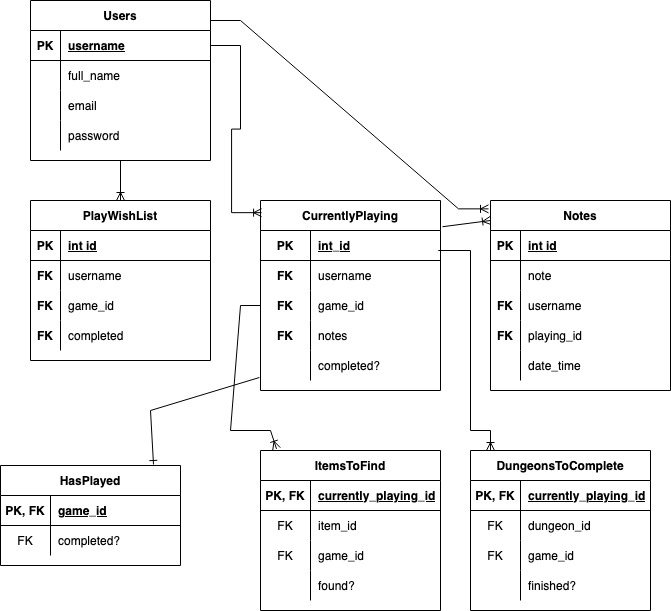
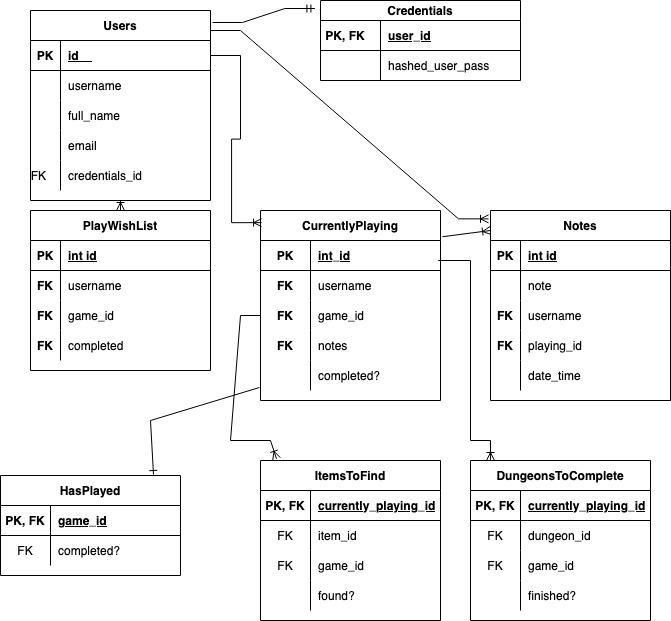
updated schema diagram, and added readme beginnings

diff --git a/Proposal.md b/Proposal.md
@@ -16,7 +16,7 @@ Gamers and Fans of the Legend of Zelda - The Zelda Franchise has been around sin
 
 ## DATA
 
-The plan is to use this free Zelda API: https://docs.zelda-a,  in tandem with the YouTube API https://developers.google.com/youtube/v3
+The plan is to use this free Zelda API: https://docs.zelda-api.apius.cc/,  in tandem with the YouTube API https://developers.google.com/youtube/v3
 
 Most of the information will come from the Zelda API and will be used to help formulate searches with the YouTube API
 

diff --git a/readme.md b/readme.md
@@ -1,0 +1,9 @@
+# Legend of Zelda - Progress Tracker & Gaming Reference
+
+## Schema
+![svg of schema](LoZ_Progress_Trivia.jpg)
+
+## API's
+
+Zelda API: https://docs.zelda-api.apius.cc/
+YouTube API: https://developers.google.com/youtube/v3
